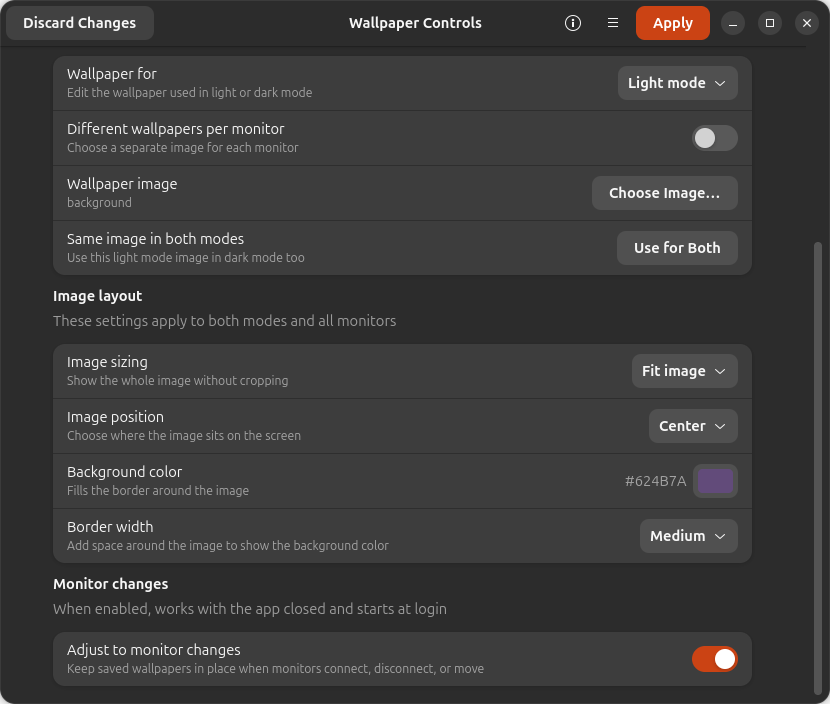
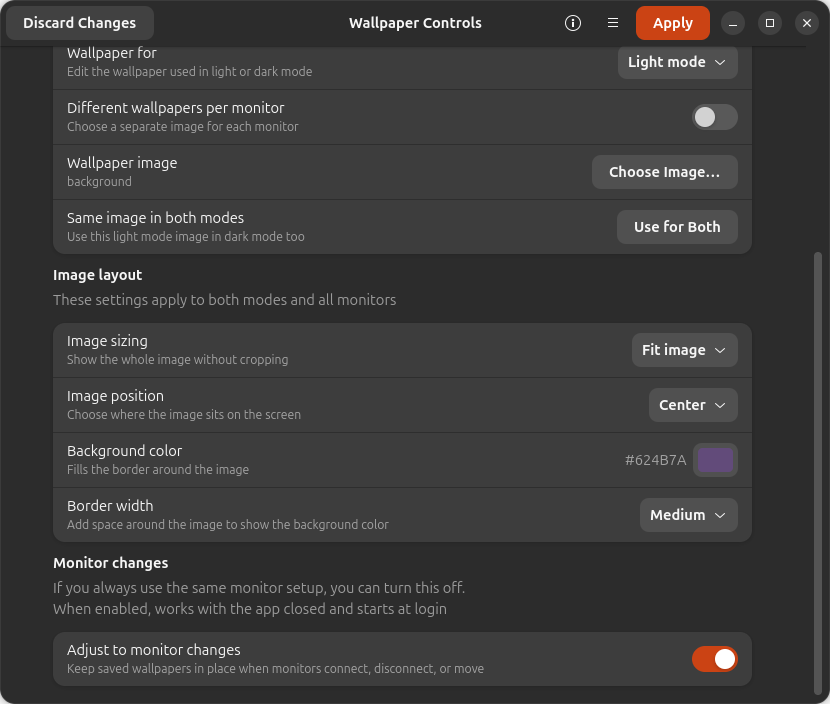
Prepare version 0.2.0 release and disclose skipped monitor test

diff --git a/RELEASING.md b/RELEASING.md
@@ -47,7 +47,8 @@ An app update also changes `APP_VERSION`, AppStream, and the changelog.
 Run `lintian dist/*.deb`, validate the packaged desktop files and metadata,
 and test installation, upgrade, launch, and removal in a disposable Ubuntu
 24.04 environment. Publish the `.deb`, matching source archive, and checksums
-together after the physical-display release checks above.
+together after the physical-display release checks above, or an explicit
+maintainer waiver recorded in the release notes.
 
 This builds a GitHub download. An Ubuntu repository or PPA would be separate
 work and is needed for automatic updates through Software Updater.
@@ -76,15 +77,22 @@ The suites report desktop-library deprecation warnings, with no failed tests.
 These APIs remain compatible with the minimum supported libraries. Physical
 monitor and login checks remain outstanding.
 
-**Still required before publication:** test two physical monitors in a real
+**Physical-display validation (outstanding for 0.2.0):** test two physical monitors in a real
 GNOME session. Cover different light/dark images, Apply and Restore Previous
 Wallpaper, monitor numbers, mixed display scales, unplug/replug, rearrangement,
 the helper after closing the window, and helper startup after login. Also check
 the Files action and keyboard navigation in that session. Automated tests do
 not establish the real compositor result or login behavior.
 
-The v0.2.0 screenshot URLs will only resolve after the reviewed candidate has
-been pushed and tagged. No release or Flathub submission is part of this audit.
+On 2026-10-14 the maintainer explicitly authorized publishing 0.2.0 without
+the physical two-monitor test. The release notes disclose that this test was
+skipped. This waiver does not mark physical-display or login validation as
+passed. The final automated suite passed all 65 checks on Ubuntu 24.04 and
+26.04; package installation, upgrade, removal, preference retention, and the
+installed app's Apply/Undo and login-helper removal behavior were also checked.
+
+The v0.2.0 screenshot URLs point to the release tag. This GitHub release does
+not include a Flathub submission.
 
 ## Flathub status
 

diff --git a/CHANGELOG.md b/CHANGELOG.md
@@ -1,8 +1,9 @@
 # Changelog
 
-## 0.2.0 — Unreleased
+## 0.2.0 — 2026-10-14
 
 - Added a reproducible Ubuntu `.deb` builder, matching source archive, and checksums. The login helper is ignored if its app has been removed.
+- Release validation: 65 automated checks passed on Ubuntu 24.04 and 26.04. Ubuntu package installation, upgrade, app launch, Apply/Undo, removal, and preference retention were checked. The maintainer chose to publish without the physical two-monitor test; that validation remains outstanding.
 - Simplified labels, instructions, and error messages. Discard Changes and Restore Previous Wallpaper now clearly distinguish unapplied edits from undoing the last change. Light and dark modes, image sizing, monitor numbers, and automatic monitor adjustments use consistent wording.
 - Added Undo Last Apply, including restoration after reopening the app and retention of the previous generated wallpaper files.
 - Added image alignment for Fill, Fit, Center, and Span with a shared renderer for the preview and final wallpaper.

diff --git a/README.md b/README.md
@@ -27,7 +27,7 @@ old. The installer checks these requirements before copying any files.
 
 ### Install the Ubuntu package
 
-Download the `.deb` from a GitHub release and install it from the folder where
+Download the `.deb` from the [latest GitHub release](https://github.com/NC4WD/WallpaperControls/releases/latest) and install it from the folder where
 you saved it:
 
 ```sh
